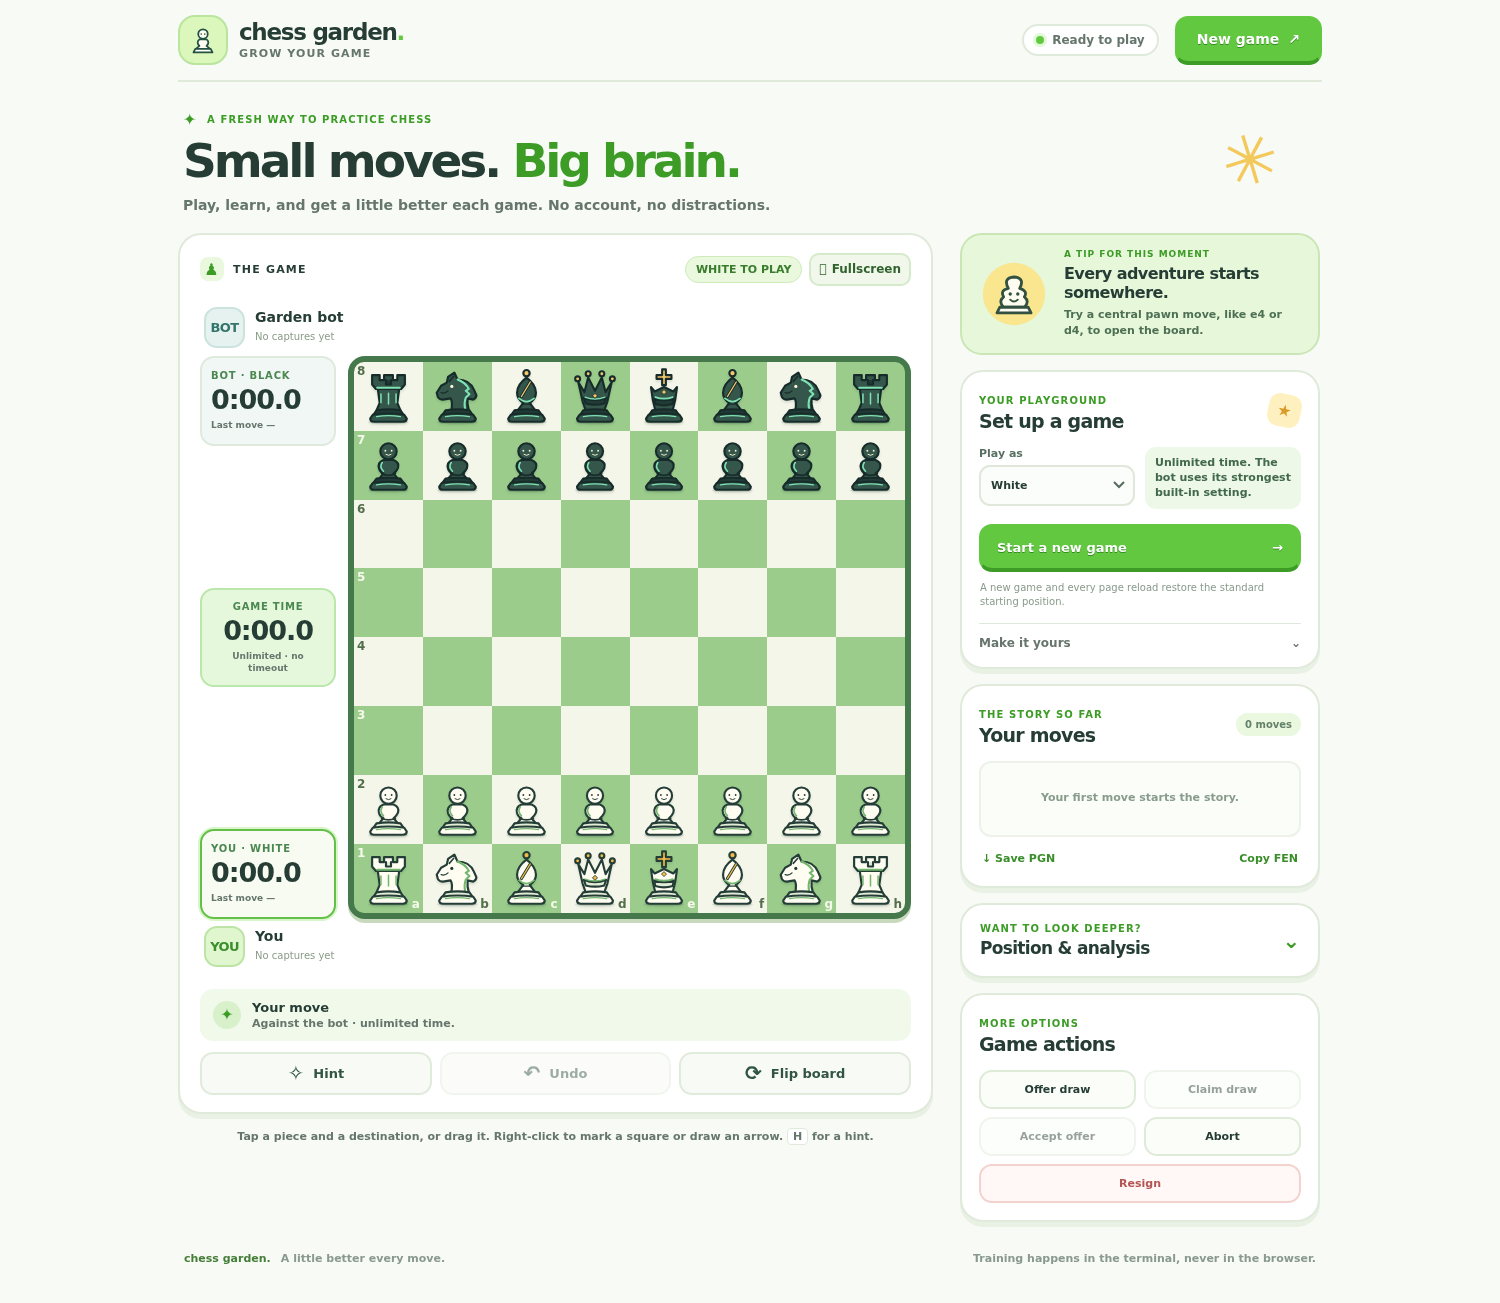
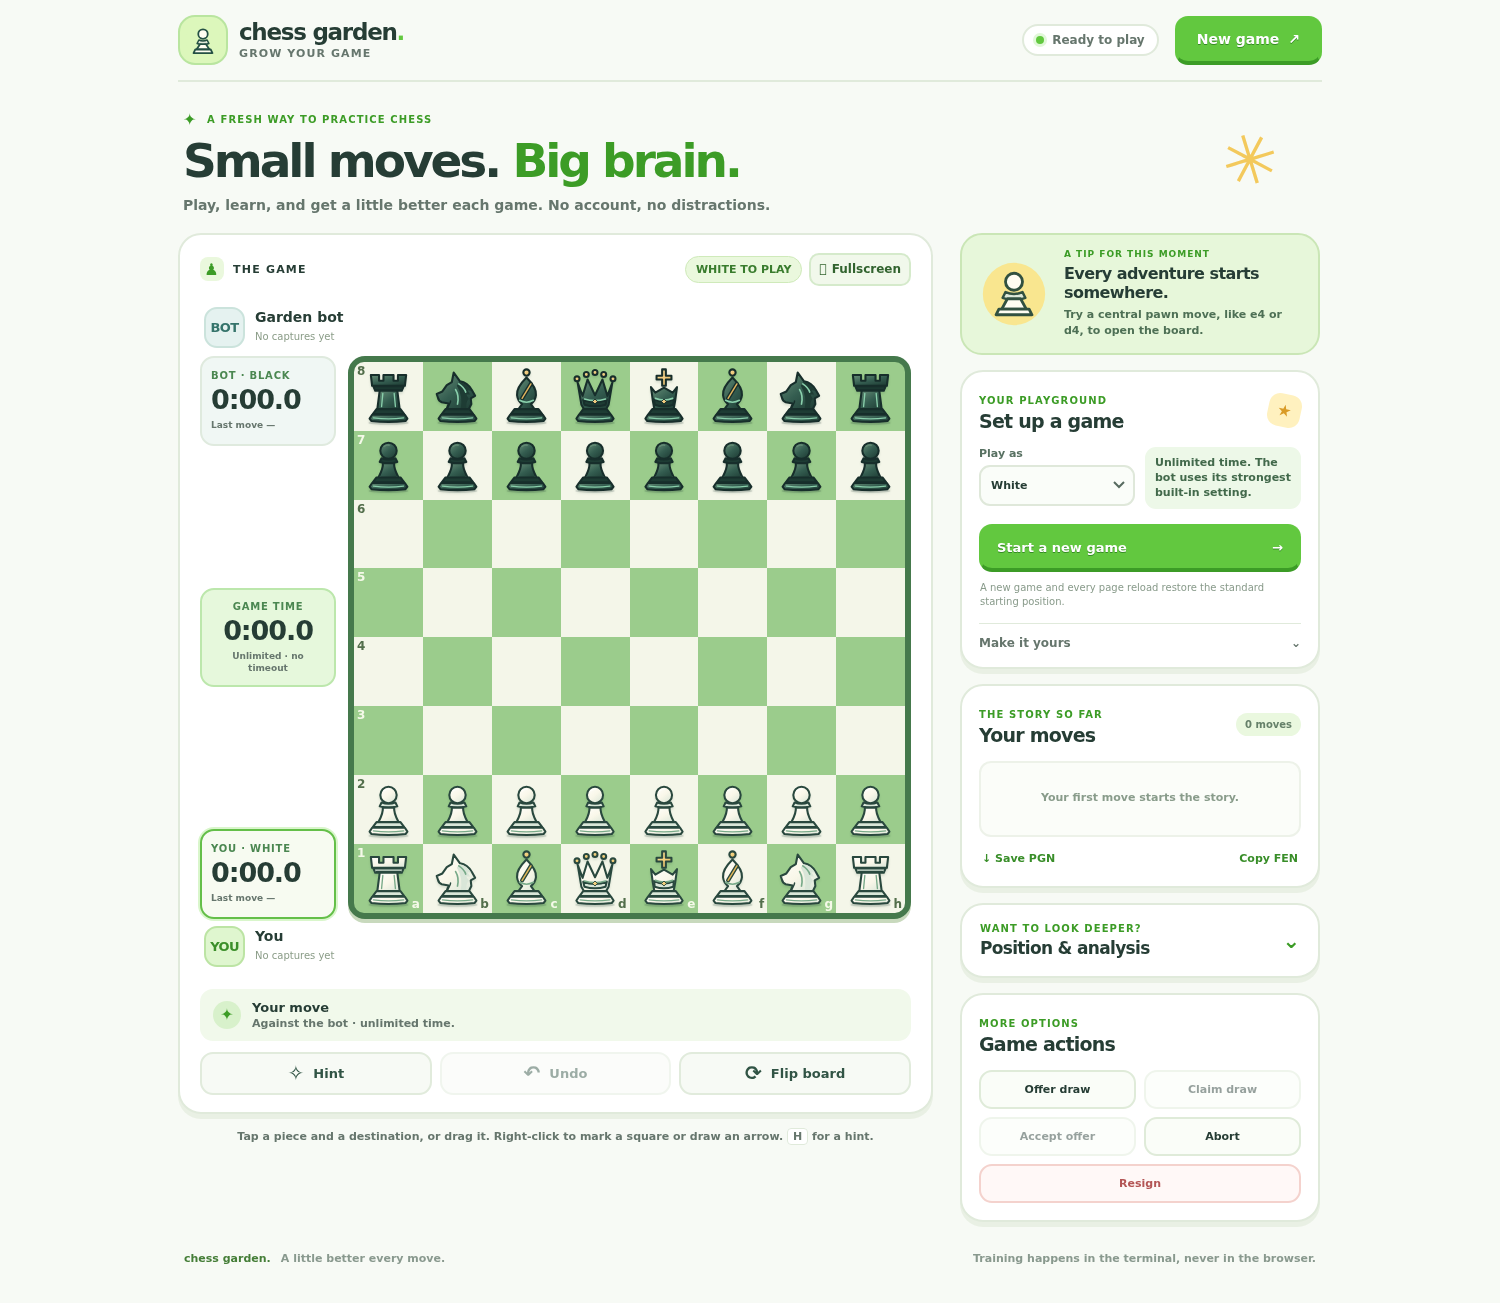
Redesign chess pieces as faceless Staunton-style vectors

diff --git a/web/pieces.js b/web/pieces.js
@@ -1,81 +1,84 @@
-/* Original, infinitely scalable chess illustrations. No PNGs, icon fonts or CDNs.
-   Every role has its own Staunton-inspired silhouette; both sides have strong
-   outlines and different body fills so they read on either board color. */
+/* Original faceless, Staunton-inspired pieces. Every image is a self-contained
+   SVG: no fonts, downloaded art, CDNs, raster pixels or facial features. The
+   ivory and forest-enamel finishes share the same strong outline and plinth. */
 const PALETTES = {
-  white: {body: '#fffcf2', shade: '#e3ecd7', edge: '#243d37', detail: '#72b66d',
-          jewel: '#f3bc46', glint: '#ffffff', eye: '#243d37'},
-  black: {body: '#34564b', shade: '#203c35', edge: '#172c2a', detail: '#7fe2b4',
-          jewel: '#f4c76c', glint: '#638b77', eye: '#fff5d4'},
+  white: {
+    body: '#f9f7e9', light: '#fffefa', shadow: '#d9e6d8', edge: '#29483e',
+    accent: '#77a988', metal: '#e3b758', metalLight: '#ffe5a0',
+  },
+  black: {
+    body: '#345d50', light: '#638a74', shadow: '#1e3c34', edge: '#172e2b',
+    accent: '#8ad0ac', metal: '#e1b45e', metalLight: '#ffe1a0',
+  },
 };
 
-const base = (p) => `
-  <path d="M31 72 Q50 69 69 72 L74 79 H26 Z" fill="${p.shade}"/>
-  <path d="M25 79 Q50 75 75 79 L79 85 Q79 90 73 90 H27 Q21 90 21 85 Z" fill="${p.body}"/>
-  <path d="M31 82 Q50 79 69 82" fill="none" stroke="${p.detail}" stroke-width="2"/>`;
+// A common weighted pedestal makes all six roles feel like one set. Broad
+// contours survive downscaling to 38–45px squares on narrow screens.
+const base = p => `
+  <path d="M31 70 H69 L75 78 H25 Z" fill="${p.shadow}"/>
+  <path d="M24 79 H76 L80 85 L77 89 Q50 92 23 89 L20 85 Z" fill="url(#body)"/>
+  <path d="M26 84 Q50 87 74 84" fill="none" stroke="${p.accent}" stroke-width="2"/>`;
 
 function pawn(p) {
   return `
-    <circle cx="50" cy="28" r="13" fill="${p.body}"/>
-    <path d="M42 42 Q32 46 35 56 Q37 62 42 64 L35 72 H65 L58 64 Q63 60 65 55 Q68 46 58 42 Z" fill="${p.body}"/>
-    <path d="M40 46 Q35 53 42 60" fill="none" stroke="${p.detail}" stroke-width="2.6"/>
-    <path d="M39 64 Q50 69 61 64" fill="none" stroke="${p.edge}" stroke-width="2.5"/>
-    <circle cx="45" cy="27" r="1.45" fill="${p.eye}" stroke="none"/>
-    <circle cx="55" cy="27" r="1.45" fill="${p.eye}" stroke="none"/>
-    <path d="M46 33 Q50 36 54 33" fill="none" stroke="${p.eye}" stroke-width="1.5"/>
+    <circle cx="50" cy="27" r="13" fill="url(#body)"/>
+    <path d="M43 20 Q47 17 51 18" fill="none" stroke="${p.light}" stroke-width="2.4"/>
+    <path d="M39 39 Q50 43 61 39 L64 45 Q50 49 36 45 Z" fill="${p.shadow}"/>
+    <path d="M41 47 C42 56 37 64 33 72 H67 C63 64 58 56 59 47 Z" fill="url(#body)"/>
+    <path d="M36 70 Q50 73 64 70" fill="none" stroke="${p.accent}" stroke-width="2.2"/>
     ${base(p)}`;
 }
 
 function rook(p) {
   return `
-    <path d="M24 16 H36 V24 H43 V16 H57 V24 H64 V16 H76 V31 L70 38 H30 L24 31 Z" fill="${p.body}"/>
-    <path d="M33 38 H67 L64 60 L69 72 H31 L36 60 Z" fill="${p.body}"/>
-    <path d="M32 36 H68" fill="none" stroke="${p.detail}" stroke-width="3"/>
-    <path d="M38 46 V60 M50 45 V62 M62 46 V60" fill="none" stroke="${p.detail}" stroke-width="2.4"/>
-    <path d="M46 24 V31 H54 V24" fill="${p.shade}"/>
+    <path d="M22 16 H35 V25 H42 V16 H58 V25 H65 V16 H78 L76 33 H24 Z" fill="url(#body)"/>
+    <path d="M26 34 H74 L71 41 H29 Z" fill="${p.shadow}"/>
+    <path d="M36 41 H64 L68 72 H32 Z" fill="url(#body)"/>
+    <path d="M41 45 L39 66 M59 45 L61 66" fill="none" stroke="${p.accent}" stroke-width="2.1"/>
+    <path d="M31 39 H69" fill="none" stroke="${p.edge}" stroke-width="2.3"/>
     ${base(p)}`;
 }
 
 function knight(p) {
   return `
-    <path d="M40 72 Q43 59 39 53 L27 55 Q21 55 19 51 L17 44 L24 33 L33 28 L35 19 L45 12 L50 23 Q69 23 76 39 L80 48 Q80 52 75 55 L66 53 Q65 63 68 72 Z" fill="${p.body}"/>
-    <path d="M50 23 Q63 28 68 38 L63 41 L69 46 L63 52 Q60 60 62 70" fill="none" stroke="${p.detail}" stroke-width="3.2"/>
-    <path d="M24 44 Q30 46 35 41" fill="none" stroke="${p.edge}" stroke-width="2"/>
-    <circle cx="41" cy="34" r="2.5" fill="${p.eye}" stroke="none"/>
-    <path d="M37 26 L44 18" fill="none" stroke="${p.edge}" stroke-width="2.5"/>
+    <path d="M44 12 L54 26 Q66 28 73 40 L78 49 L71 53 L72 62 L67 72 H32 L36 61 L25 59 Q20 57 19 52 L17 46 L26 42 L33 32 L41 27 Z" fill="url(#body)"/>
+    <path d="M53 27 Q65 29 72 41 L66 40 L70 47 L64 47 L68 54 Q63 58 64 70 H55 Q59 49 49 33 Z" fill="${p.shadow}" stroke="none"/>
+    <path d="M52 30 Q61 36 63 43 M47 39 Q53 49 50 62" fill="none" stroke="${p.accent}" stroke-width="2.6"/>
+    <path d="M32 72 Q39 60 39 57" fill="none" stroke="${p.edge}" stroke-width="2.3"/>
     ${base(p)}`;
 }
 
 function bishop(p) {
   return `
-    <circle cx="50" cy="13" r="5" fill="${p.jewel}"/>
-    <path d="M50 20 Q65 31 65 44 Q65 54 55 60 L64 72 H36 L45 60 Q35 54 35 44 Q35 31 50 20 Z" fill="${p.body}"/>
-    <path d="M56 27 L42 50" fill="none" stroke="${p.edge}" stroke-width="5"/>
-    <path d="M56 27 L42 50" fill="none" stroke="${p.jewel}" stroke-width="2.1"/>
-    <path d="M38 53 Q50 63 62 53" fill="none" stroke="${p.detail}" stroke-width="2.8"/>
-    <path d="M42 62 H58" fill="none" stroke="${p.edge}" stroke-width="2"/>
+    <circle cx="50" cy="12" r="5" fill="url(#metal)"/>
+    <path d="M50 20 C61 31 66 40 65 48 Q64 57 57 62 L65 73 H35 L43 62 Q36 57 35 48 C34 40 39 31 50 20 Z" fill="url(#body)"/>
+    <path d="M57 30 L43 53" fill="none" stroke="${p.edge}" stroke-width="6.5"/>
+    <path d="M57 30 L43 53" fill="none" stroke="${p.metal}" stroke-width="2.3"/>
+    <path d="M39 56 Q50 62 61 56" fill="none" stroke="${p.accent}" stroke-width="2.4"/>
     ${base(p)}`;
 }
 
 function queen(p) {
   return `
-    <circle cx="22" cy="22" r="4" fill="${p.jewel}"/>
-    <circle cx="39" cy="14" r="4" fill="${p.jewel}"/>
-    <circle cx="61" cy="14" r="4" fill="${p.jewel}"/>
-    <circle cx="78" cy="22" r="4" fill="${p.jewel}"/>
-    <path d="M23 27 L33 43 L39 20 L50 41 L61 20 L67 43 L77 27 L70 58 L65 72 H35 L30 58 Z" fill="${p.body}"/>
-    <path d="M32 52 Q50 60 68 52 L65 61 Q50 65 35 61 Z" fill="${p.shade}"/>
-    <path d="M34 51 Q50 57 66 51" fill="none" stroke="${p.detail}" stroke-width="2.3"/>
-    <path d="M50 45 L54 49 L50 53 L46 49 Z" fill="${p.jewel}" stroke-width="1.5"/>
+    <circle cx="21" cy="22" r="4" fill="url(#metal)"/>
+    <circle cx="36" cy="15" r="4" fill="url(#metal)"/>
+    <circle cx="50" cy="12" r="4" fill="url(#metal)"/>
+    <circle cx="64" cy="15" r="4" fill="url(#metal)"/>
+    <circle cx="79" cy="22" r="4" fill="url(#metal)"/>
+    <path d="M22 28 L30 49 L38 23 L50 48 L62 23 L70 49 L78 28 L72 63 L66 73 H34 L28 63 Z" fill="url(#body)"/>
+    <path d="M31 55 Q50 62 69 55 L67 63 Q50 68 33 63 Z" fill="${p.shadow}"/>
+    <path d="M33 54 Q50 59 67 54" fill="none" stroke="${p.accent}" stroke-width="2.6"/>
+    <path d="M50 62 L54 58 L50 54 L46 58 Z" fill="url(#metal)" stroke-width="1.5"/>
     ${base(p)}`;
 }
 
 function king(p) {
   return `
-    <path d="M47 7 H53 V16 H62 V22 H53 V32 H47 V22 H38 V16 H47 Z" fill="${p.jewel}"/>
-    <path d="M29 35 L35 42 L50 35 L65 42 L71 35 L68 56 L64 72 H36 L32 56 Z" fill="${p.body}"/>
-    <path d="M34 53 Q50 59 66 53 L64 62 Q50 66 36 62 Z" fill="${p.shade}"/>
-    <path d="M36 51 Q50 56 64 51" fill="none" stroke="${p.detail}" stroke-width="2.8"/>
-    <path d="M46 43 L50 39 L54 43 L50 47 Z" fill="${p.jewel}" stroke-width="1.3"/>
+    <path d="M47 7 H53 V17 H62 V23 H53 V33 H47 V23 H38 V17 H47 Z" fill="url(#metal)"/>
+    <path d="M29 35 L36 44 L50 36 L64 44 L71 35 L68 57 L65 73 H35 L32 57 Z" fill="url(#body)"/>
+    <path d="M34 54 Q50 62 66 54 L65 63 Q50 68 35 63 Z" fill="${p.shadow}"/>
+    <path d="M36 53 Q50 58 64 53" fill="none" stroke="${p.accent}" stroke-width="2.6"/>
+    <path d="M50 62 L54 58 L50 54 L46 58 Z" fill="url(#metal)" stroke-width="1.5"/>
     ${base(p)}`;
 }
 
@@ -84,12 +87,23 @@ const cache = new Map();
 
 export function pieceSvg(symbol) {
   if (!/^[prnbqkPRNBQK]$/.test(symbol)) throw new TypeError('Unknown chess piece');
-  const palette = PALETTES[symbol === symbol.toUpperCase() ? 'white' : 'black'];
+  const p = PALETTES[symbol === symbol.toUpperCase() ? 'white' : 'black'];
   const role = symbol.toLowerCase();
   return `<svg xmlns="http://www.w3.org/2000/svg" viewBox="0 0 100 100" width="100" height="100" aria-hidden="true">
-    <ellipse cx="50" cy="91" rx="32" ry="3" fill="${palette.edge}" opacity=".15"/>
-    <g stroke="${palette.edge}" stroke-width="3.4" stroke-linejoin="round" stroke-linecap="round">
-      ${DRAW[role](palette)}
+    <defs>
+      <linearGradient id="body" x1="10%" y1="0%" x2="90%" y2="100%">
+        <stop offset="0" stop-color="${p.light}"/>
+        <stop offset=".5" stop-color="${p.body}"/>
+        <stop offset="1" stop-color="${p.shadow}"/>
+      </linearGradient>
+      <linearGradient id="metal" x1="0%" y1="0%" x2="100%" y2="100%">
+        <stop offset="0" stop-color="${p.metalLight}"/>
+        <stop offset="1" stop-color="${p.metal}"/>
+      </linearGradient>
+    </defs>
+    <ellipse cx="50" cy="92" rx="32" ry="3" fill="${p.edge}" opacity=".16"/>
+    <g stroke="${p.edge}" stroke-width="3.3" stroke-linejoin="round" stroke-linecap="round">
+      ${DRAW[role](p)}
     </g>
   </svg>`;
 }

diff --git a/web/index.html b/web/index.html
@@ -17,9 +17,9 @@
           <svg viewBox="0 0 64 64" width="38" height="38">
             <circle cx="32" cy="32" r="29" fill="#dcf7bb"/>
             <circle cx="32" cy="22" r="8" fill="#fffef1" stroke="#245044" stroke-width="3"/>
-            <path d="M26 31 Q20 36 26 42 L20 47 H44 L38 42 Q44 36 38 31 Z" fill="#fffef1" stroke="#245044" stroke-width="3" stroke-linejoin="round"/>
-            <path d="M19 47 H45 L48 53 H16 Z" fill="#fffef1" stroke="#245044" stroke-width="3" stroke-linejoin="round"/>
-            <circle cx="29" cy="22" r="1.4" fill="#245044"/><circle cx="35" cy="22" r="1.4" fill="#245044"/>
+            <path d="M25 32 Q32 35 39 32 L42 38 Q32 42 22 38 Z" fill="#e1e9d9" stroke="#245044" stroke-width="2.5" stroke-linejoin="round"/>
+            <path d="M27 39 H37 L43 48 H21 Z" fill="#fffef1" stroke="#245044" stroke-width="3" stroke-linejoin="round"/>
+            <path d="M19 48 H45 L48 54 H16 Z" fill="#fffef1" stroke="#245044" stroke-width="3" stroke-linejoin="round"/>
           </svg>
         </span>
         <span class="brand-copy"><strong>chess garden<span class="brand-period">.</span></strong><small>grow your game</small></span>
@@ -93,7 +93,7 @@
 
       <aside class="sidebar" aria-label="Game controls">
         <section class="coach-card" aria-label="Chess tip">
-          <span class="coach-icon" aria-hidden="true"><svg viewBox="0 0 72 72" width="68" height="68"><circle cx="36" cy="36" r="33" fill="#f9e68f"/><path d="M25 50 Q19 44 25 39 Q21 32 30 30 Q24 19 36 18 Q48 19 42 30 Q51 33 47 39 Q53 44 47 50 Z" fill="#fffdf2" stroke="#325140" stroke-width="3" stroke-linejoin="round"/><path d="M21 50 H51 L54 56 H18 Z" fill="#fffdf2" stroke="#325140" stroke-width="3" stroke-linejoin="round"/><circle cx="32" cy="36" r="1.8" fill="#325140"/><circle cx="40" cy="36" r="1.8" fill="#325140"/><path d="M32 42 Q36 46 40 42" fill="none" stroke="#325140" stroke-width="2" stroke-linecap="round"/></svg></span>
+          <span class="coach-icon" aria-hidden="true"><svg viewBox="0 0 72 72" width="68" height="68"><circle cx="36" cy="36" r="33" fill="#f9e68f"/><circle cx="36" cy="23" r="9" fill="#fffdf2" stroke="#325140" stroke-width="3"/><path d="M27 34 Q36 38 45 34 L48 40 Q36 45 24 40 Z" fill="#dfe9d9" stroke="#325140" stroke-width="2.6" stroke-linejoin="round"/><path d="M29 41 H43 L49 52 H23 Z" fill="#fffdf2" stroke="#325140" stroke-width="3" stroke-linejoin="round"/><path d="M20 52 H52 L55 58 H17 Z" fill="#fffdf2" stroke="#325140" stroke-width="3" stroke-linejoin="round"/></svg></span>
           <span class="coach-copy"><span class="coach-kicker">A TIP FOR THIS MOMENT</span><strong id="coachTitle">One move at a time.</strong><span id="coachBody">Start the server to play a game.</span></span>
         </section>
 

diff --git a/tests/logic.test.js b/tests/logic.test.js
@@ -62,6 +62,24 @@ test('the twelve pieces are distinct self-contained vector images', () => {
   assert.throws(() => pieceSvg('x'), TypeError);
 });
 
+test('board figures and decorative pawns have no drawn eyes or faces', () => {
+  for (const symbol of ['P', 'p']) {
+    // A pawn has one circle for its round head, never two tiny eye dots.
+    assert.equal((pieceSvg(symbol).match(/<circle\b/g) || []).length, 1);
+  }
+  for (const symbol of ['N', 'n']) {
+    // The horse has a recognizable silhouette and mane, but no facial marks.
+    assert.equal((pieceSvg(symbol).match(/<circle\b/g) || []).length, 0);
+  }
+  const html = readFileSync(new URL('../web/index.html', import.meta.url), 'utf8');
+  for (const element of ['brand-mark', 'coach-icon']) {
+    const illustration = html.match(new RegExp(`class="${element}"[\\s\\S]*?<\\/svg>`))?.[0];
+    assert.ok(illustration, `missing ${element} illustration`);
+    assert.equal((illustration.match(/<circle\b/g) || []).length, 2,
+                 `${element}: background and head only, no eye dots`);
+  }
+});
+
 test('web entry point is browser-only and self-hosted', () => {
   const html = readFileSync(new URL('../web/index.html', import.meta.url), 'utf8');
   assert.ok(html.includes('/static/app.js'));

diff --git a/docs/IMPROVEMENTS.md b/docs/IMPROVEMENTS.md
@@ -2,7 +2,7 @@
 
 ## Current design
 
-- Replaced the three Tk windows, ZIP of low-resolution PNG pieces, and schematic preview with a responsive web-first game, original scalable SVG chess art, real browser screenshot, and self-hosted assets.
+- Replaced the three Tk windows, ZIP of low-resolution PNG pieces, and schematic preview with a responsive web-first game, original faceless Staunton-inspired SVG chess art, real browser screenshot, and self-hosted assets.
 - Rules stay in `python-chess`. Claimable draws do not auto-end games; bot-game claims require the human's turn; draw agreements require an actual opponent's offer; captured-piece displays follow actual captures rather than miscounting promoted pawns; invalid JSON types return 400 instead of 500. The left panel is a **monotonic, cumulative stopwatch**, not a countdown; undo rewinds moves but not elapsed real time.
 - Per-browser in-memory games, same-origin checks, sessionStorage fallback for embedded previews; async bot/analysis outside the game lock, with stale search results discarded after undo/new. **No premoves** while the bot thinks; reloading and New game both reset to the starting board. Fullscreen keeps the time panel with the board.
 - Reliable alpha-beta playing search at its strongest built-in level by default; check-aware quiescence, mate scoring, king safety and pawn structure. Model activation requires a SHA-256 receipt for a passed **level-5** gate from the terminal trainer.

diff --git a/README.md b/README.md
@@ -1,6 +1,6 @@
 # Chess Garden
 
-A **browser-only, local chess game** with friendly, Duolingo-inspired (not Duolingo-branded) design, original crisp SVG pieces, a rule-authoritative Python server, and **terminal-only** bot training. There is no Tkinter app, training button, CDN, external image/font, account, or cloud engine.
+A **browser-only, local chess game** with friendly, Duolingo-inspired (not Duolingo-branded) design, original faceless Staunton-inspired SVG pieces, a rule-authoritative Python server, and **terminal-only** bot training. There is no Tkinter app, training button, CDN, external image/font, account, or cloud engine.
 
 ![Real browser screenshot of Chess Garden](docs/web-preview.png)
 
